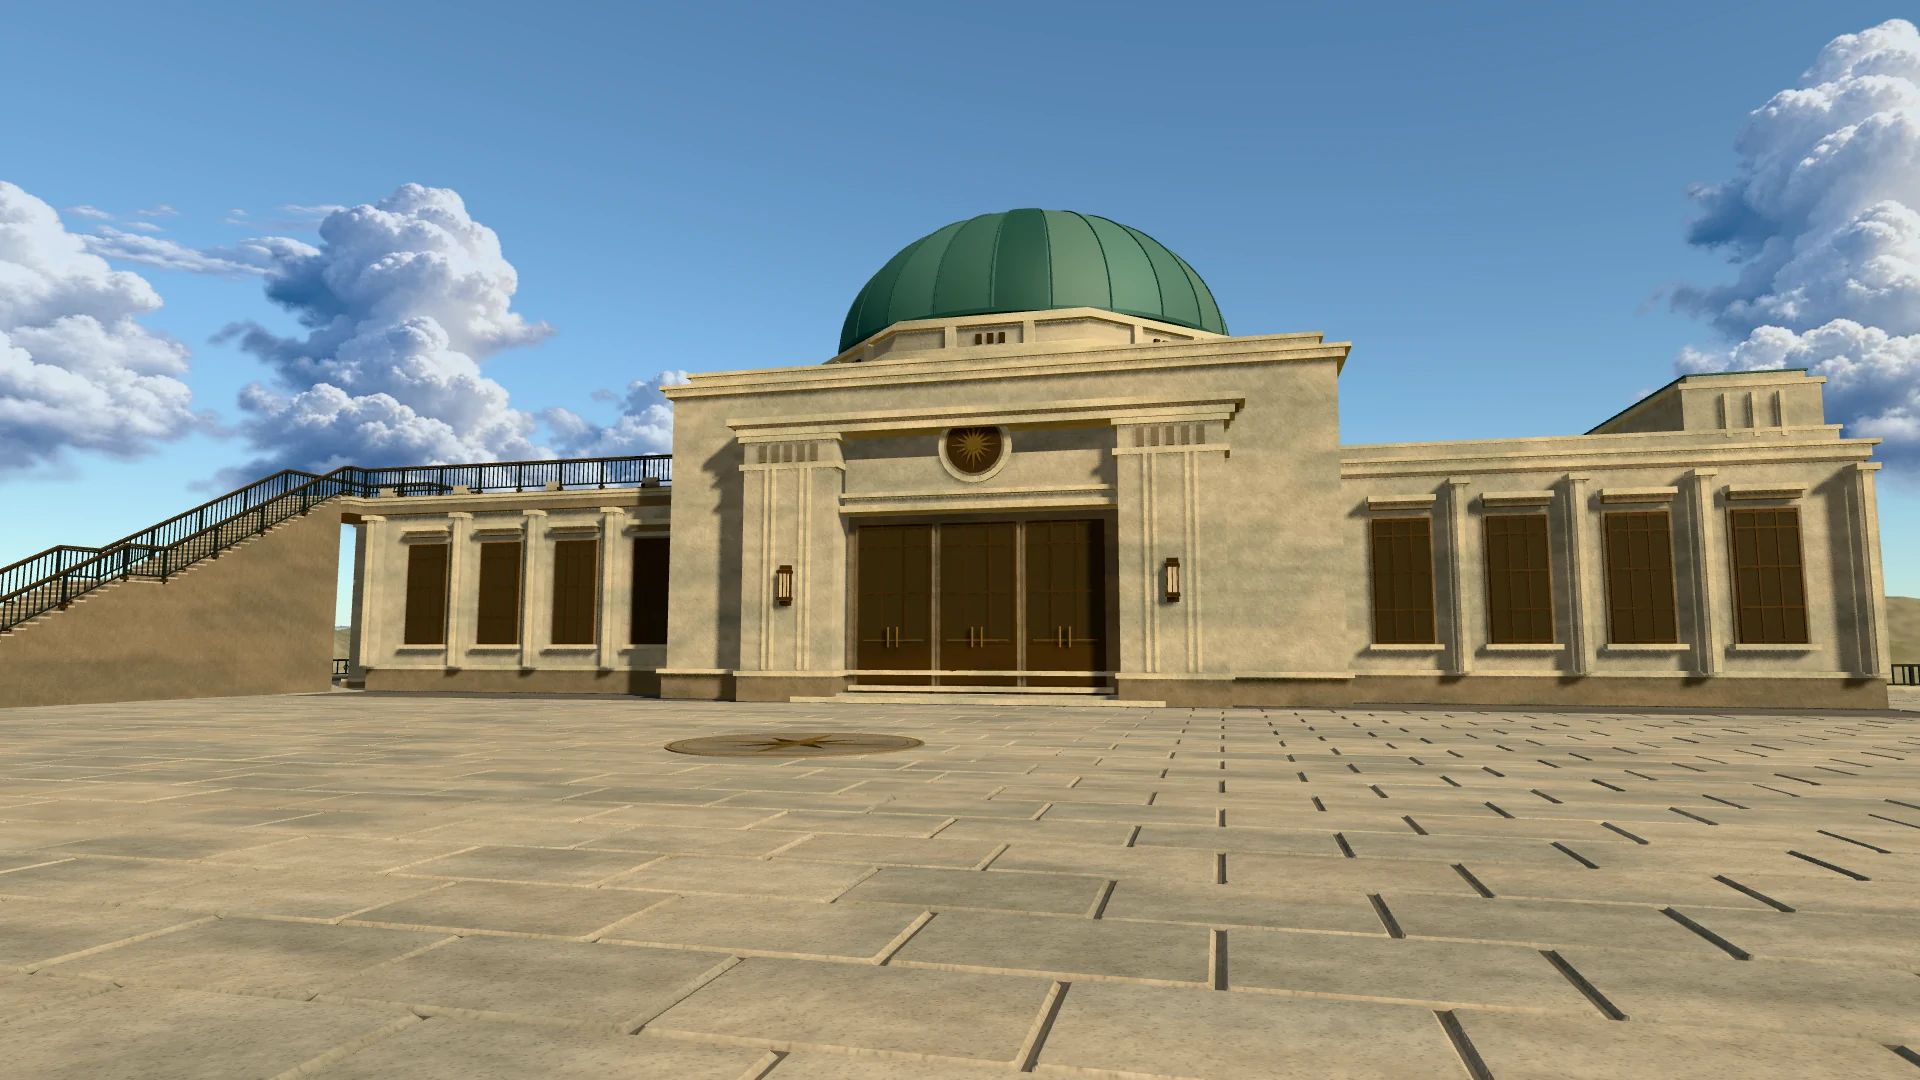
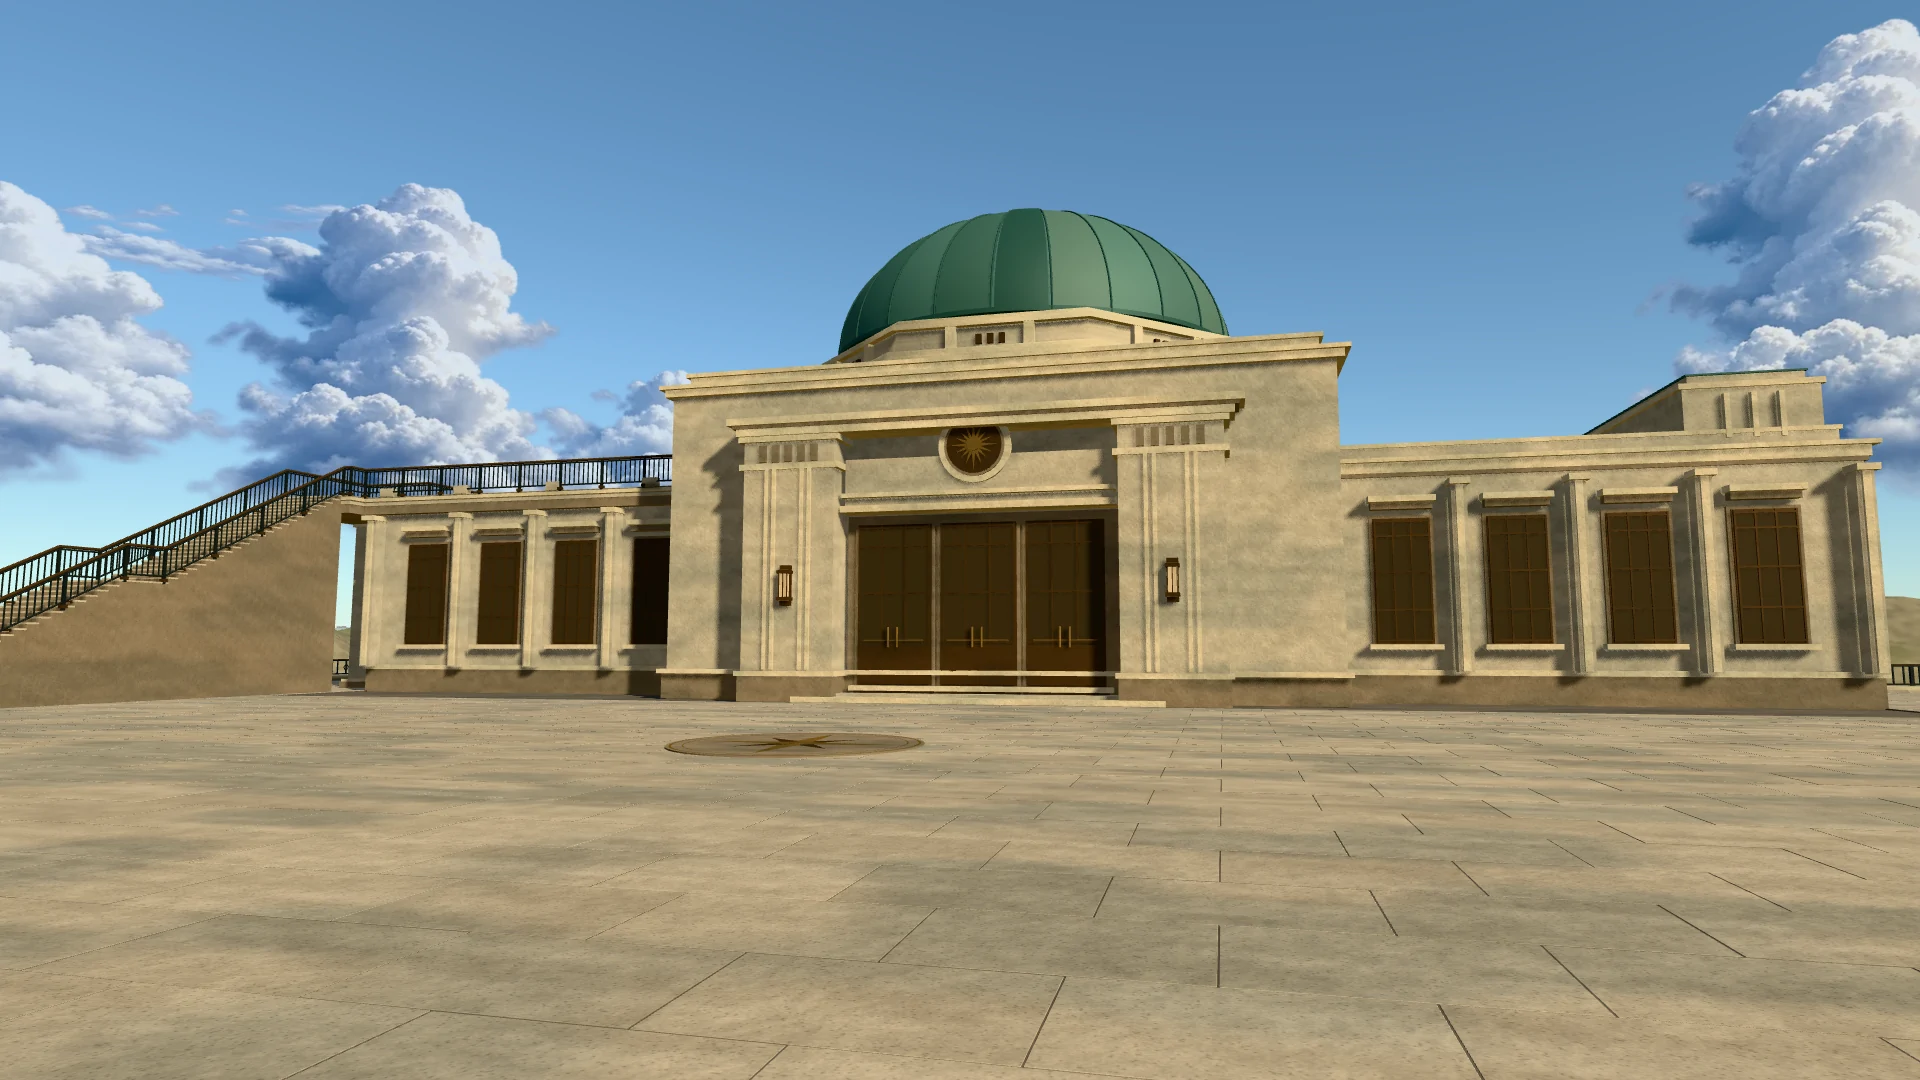
docs(gallery): refresh overlook photographs and record mixed capture versions

diff --git a/docs/gallery/capture.md b/docs/gallery/capture.md
@@ -4,15 +4,15 @@
 
 ## 撮影条件
 
-- 描画元：コミット `8d24d11d37f5e6fa37afad308b8d5621761bc7df` の本番ビルド。今回の変更は掲載文書・画像と撮影補助で、ワールドのコードは変更していません。
+- 撮影版は写真別に管理します。更新済みの写真は検証用clean統合merge `9b04bebe6ec5866446e8689ffeaaf4969bdf0db1`、その他は撮影記録に示す既存版から取得しています。更新対象のworldは `captureSources` と各frameで確認でき、全48画像が単一revisionの描画を示すものではありません。
 - 画面：1920 × 1080 px、devicePixelRatio 1、デスクトップ Chromium、描画設定「高品質」。
 - 視点：既存の到着地点と通常のマウス・キーボード操作。写真別の位置・向き・縦視野角、昼夜、照明や布団・灯籠の設定は [撮影記録](manifest.json)に記録しています。
 - シーンの時間は停止せず、雲、水、鳥、交通などは通常の描画更新で取得しています。同じ手順でも動く物体の位置や画素は一致しません。
 - 未接続の仮想モニターや映画館の空のスクリーンは、外部映像を再生している状態ではありません。この記録が確認したのは撮影時のPC表示です。音響・VR実機・性能の確認範囲は[検証ガイド](../verification.md)を参照してください。
 
-掲載用の画像は原寸PNGをWebPへ圧縮したものです。6枚の一覧用サムネイルだけ640 × 360 pxに縮小しています。写真の構図はトリミングしていません。撮影日時、ブラウザー版、原本PNGと掲載WebPのSHA-256、画像容量は撮影記録を参照してください。
+掲載用の画像は原寸PNGをWebPへ圧縮したものです。6枚の一覧用サムネイルだけ640 × 360 pxに縮小しています。更新分のREADME代表は展望台の主夜景、住戸のリビング昼景、映画館の清掃照明の後方視点です。写真の構図はトリミングしていません。撮影日時、ブラウザー版、原本PNGと掲載WebPのSHA-256、画像容量は撮影記録を参照してください。
 
-掲載は景観36枚、UIあり6枚、一覧用6枚の計48ファイル、合計7,834,458 bytes（約7.47 MiB）です。Node.js 22.23.4、Chromium 159.0.8154.6、ImageMagick 7.0.10-57で取得・変換しました。
+掲載は景観36枚、UIあり6枚、一覧用6枚の計48ファイル、合計7,814,494 bytes（約7.45 MiB）です。新しい撮影版の掲載画像は7ファイルです。撮影日時とブラウザー版は写真別記録、掲載用の変換はImageMagick 7.0.10-57、quality 88 / method 6です。
 
 | ワールド | 景観写真 | 縦視野角 |
 | --- | --- | --- |
@@ -22,6 +22,18 @@
 | 映画館シアター | 6枚 | 60° |
 | 商業アトリウム | 5枚 | 42° |
 | 湖畔の広間 | 7枚 | 52° |
+
+## 写真ごとの来歴
+
+撮影記録のschemaVersion 2は複数版を扱います。`frames[].sourceRevision` が実際の撮影元コミット、`route` がホストを含まない相対到着URL、位置・向き・projection・raster・animation・inputが条件です。`publicComponents` は公開済みのworldと共通操作のcommitを示します。撮影treeとcomponentのcommitは役割が異なります。
+
+| 撮影用統合版の構成 | 公開component |
+| --- | --- |
+| 丘陵展望台・共通操作 | `5ae0c29d47be9a5dd039a175298f639cb36772c1` |
+| 都心の70階住戸 | `6cd8cd372a378c2dcc12c1ad232553cee2127d08` |
+| 映画館シアター | `cd79fdea5cda19827465f394557a6bf94063be66` |
+
+`captureSources` は撮影版の役割とcompiled buildの同一性をまとめます。海岸・アトリウム・湖畔の旧frameと原本PNG識別子は保持しています。新しい公開記録も原本PNGのSHA、掲載WebPのSHA・寸法・容量を結び付け、ホストの絶対path、loopbackのportや配信URL、実行環境の識別子は記録しません。通常描画の静止写真であり、全方向・移動・音響・長期再生を一括して保証するものではありません。
 
 ## 再取得
 
@@ -39,7 +51,7 @@ GALLERY_OUTPUT=/tmp/lumen-gallery-raw COAST_CHROME_CHANNEL=chromium node scripts
 GALLERY_OUTPUT=/tmp/lumen-gallery-raw node scripts/capture-gallery.mjs coast-inlet-day lake-hall-day
 ```
 
-[撮影スクリプト](../../scripts/capture-gallery.mjs)はURLで到着地点を開き、「高品質」、昼夜、設定ボタン、通常のマウス操作・歩行から構図を作ります。WebGLの行列を読み取り、実際に描画した視点を記録します。追跡中の `src/`・`public/` に未コミット変更がある場合は撮影を止めます。配信されたHTML・JavaScriptのハッシュも記録しますが、それだけでビルドとコミットの対応は証明できないため、再取得前に `npm run build` を実行してください。今回の写真は、撮影元コミットと同じソースの検証済みビルドで取得しました。撮影用スタイルで操作UIを一時的に非表示にし、UIあり版も別途取得します。シーンの座標や形状を直接書き換えていません。撮影計画を変えたら、実際の写真と操作経路を目視し、キャプションと記録も同時に更新してください。
+[撮影スクリプト](../../scripts/capture-gallery.mjs)はURLで到着地点を開き、「高品質」、昼夜、設定ボタン、通常のマウス操作・歩行から構図を作ります。WebGLの行列を読み取り、実際に描画した視点を記録します。追跡中の `src/`・`public/` に未コミット変更がある場合は撮影を止めます。配信されたHTML・JavaScriptのハッシュも記録しますが、それだけでビルドとコミットの対応は証明できないため、再取得前に `npm run build` を実行してください。更新した5視点はclean統合版から取得し、配信HTML・JavaScriptと全103配布ファイルが検証済みnativeビルドに一致することを確認しました。実撮影revisionは公開componentのcommitへ置換せずに記録します。撮影用スタイルで操作UIを一時的に非表示にし、UIあり版も別途取得します。シーンの座標や形状を直接書き換えていません。撮影計画を変えたら、実際の写真と操作経路を目視し、キャプションと記録も同時に更新してください。
 
 ## 掲載用の変換
 
